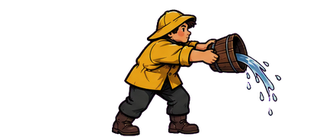
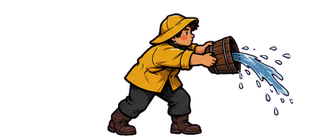
Рудник 3: водолей в правильном порядке кадров (ряды листа делятся по промежуткам, а не поровну — у GPT было 6/6/4/8), тайминг выплёскивания

diff --git a/art/zone/anim_hall_lib.py b/art/zone/anim_hall_lib.py
@@ -1,0 +1,112 @@
+# Shared bits for the animation previews: magenta keying and cutting a cycle sheet into frames along silhouettes.
+import numpy as np
+from PIL import Image
+
+def key(im):
+    """magenta -> transparent, with the magenta taken out of soft edges (as in art/malachite/parts_cut.py)"""
+    a = np.asarray(im.convert("RGB")).astype(float) / 255
+    r, g, b = a[..., 0], a[..., 1], a[..., 2]
+    al = 1 - np.clip((np.minimum(r, b) - g - 0.25) / 0.45, 0, 1)
+    fg = np.clip((a - (1 - al[..., None]) * np.array([1, 0, 1])) / np.maximum(al[..., None], 1e-3), 0, 1)
+    return Image.fromarray((np.dstack([fg, al]) * 255).astype(np.uint8))
+
+def fit_h(im, h):
+    return im.resize((max(1, round(im.width * h / im.height)), h), Image.LANCZOS)
+
+def label(mask):
+    lab = np.zeros(mask.shape, np.int32); n = 0
+    h, w = mask.shape
+    for y0, x0 in zip(*np.nonzero(mask)):
+        if lab[y0, x0]: continue
+        n += 1; stack = [(y0, x0)]; lab[y0, x0] = n
+        while stack:
+            y, x = stack.pop()
+            for yy, xx in ((y + 1, x), (y - 1, x), (y, x + 1), (y, x - 1)):
+                if 0 <= yy < h and 0 <= xx < w and mask[yy, xx] and not lab[yy, xx]:
+                    lab[yy, xx] = n; stack.append((yy, xx))
+    return lab, n
+
+def by_shape(im, n, rows=1, align="center", ahead=False):
+    """n frames cut along the figures' silhouettes (the n biggest regions; small loose bits - a pick, spray - join the
+    nearest one), ordered by rows then left to right, on one canvas size with the bottoms aligned. With `ahead` (people
+    facing right) a loose bit joins the nearest figure it is IN FRONT of: a thrown stone or a spark flies out of its own
+    cell towards the next drawing, and by plain nearness it hung behind the next man's back"""
+    S = 4
+    al = np.asarray(im)[..., 3]
+    h, w = al.shape
+    small = al[: h // S * S, : w // S * S].reshape(h // S, S, w // S, S).max(axis=(1, 3)) > 128
+    lab, k = label(small)
+    sizes = np.bincount(lab.ravel())[1:]
+    big = list(np.argsort(sizes)[::-1][:n] + 1)
+    cen = {i: (np.nonzero(lab == i)[0].mean(), np.nonzero(lab == i)[1].mean()) for i in range(1, k + 1)}
+    by_y = sorted(big, key=lambda i: cen[i][0])
+    # rows split at the widest gaps between the drawings' middles, not by equal counts: GPT sometimes puts 4 drawings in a
+    # row and 8 in the next (the bailer), and equal counts then mixed the rows up
+    gaps = sorted(range(1, len(by_y)), key=lambda j: cen[by_y[j]][0] - cen[by_y[j - 1]][0])[::-1][:rows - 1]
+    cuts = [0] + sorted(gaps) + [len(by_y)]
+    order = []
+    for r in range(rows):
+        order += sorted(by_y[cuts[r]:cuts[r + 1]], key=lambda i: cen[i][1])
+    owner = {}
+    for i in range(1, k + 1):
+        near = lambda j: (cen[i][0] - cen[j][0]) ** 2 + (cen[i][1] - cen[j][1]) ** 2
+        behind = [j for j in big if cen[j][1] < cen[i][1] and abs(cen[j][0] - cen[i][0]) < h / S / rows / 2] if ahead else []
+        owner[i] = i if i in big else min(behind or big, key=near)
+    lut = np.zeros(k + 1, np.int32)
+    for i, o in owner.items():
+        lut[i] = o
+    own = np.repeat(np.repeat(lut[lab], S, 0), S, 1)
+    own = np.pad(own, ((0, h - own.shape[0]), (0, w - own.shape[1])))
+    arr = np.asarray(im)
+    out = []
+    for i in order:
+        msk = own == i
+        ys, xs = np.nonzero(msk)
+        a = arr.copy(); a[..., 3] = (a[..., 3] * msk).astype(np.uint8)
+        out.append(Image.fromarray(a).crop((xs.min(), ys.min(), xs.max() + 1, ys.max() + 1)))
+    # horizontal registration: a walker by the hips (the bbox jumps with every stride), a planted figure by the feet
+    def ax(f):
+        a = np.asarray(f)[..., 3] > 128
+        ys, xs = np.nonzero(a)
+        top, bot = ys.min(), ys.max()
+        if align == "hips":
+            band = (ys > top + (bot - top) * 0.40) & (ys < top + (bot - top) * 0.58)
+        elif align == "feet":
+            band = ys > bot - (bot - top) * 0.12
+        else:
+            return f.width / 2
+        return xs[band].mean()
+    anchors = [ax(f) for f in out]
+    left = max(anchors); right = max(f.width - a for f, a in zip(out, anchors))
+    W = int(left + right) + 2; H = max(f.height for f in out)
+    res = []
+    for f, a in zip(out, anchors):
+        g = Image.new("RGBA", (W, H), (0, 0, 0, 0)); g.alpha_composite(f, (int(left - a), H - f.height)); res.append(g)
+    return res
+
+def smooth_order(fr):
+    """GPT numbers the drawings of a loop, but they do not always follow each other: neighbours on the sheet can be poses
+    far apart, and the loop jumps. Find the order through all drawings with the least change from one to the next
+    (a closed tour: nearest neighbour, then 2-opt), starting from the sheet's first drawing and keeping its direction."""
+    sz = (48, 48)
+    def vec(f):
+        g = Image.new("RGBA", f.size, (0, 0, 0, 0)); g.alpha_composite(f)
+        a = np.asarray(g.resize(sz, Image.BILINEAR)).astype(float) / 255
+        return np.concatenate([a[..., 3].ravel() * 2, (a[..., :3].mean(2) * a[..., 3]).ravel()])
+    v = np.array([vec(f) for f in fr])
+    D = np.sqrt(((v[:, None] - v[None]) ** 2).sum(-1))
+    n = len(fr)
+    tour, left = [0], set(range(1, n))
+    while left:
+        j = min(left, key=lambda k: D[tour[-1], k]); tour.append(j); left.discard(j)
+    better = True
+    while better:
+        better = False
+        for i in range(1, n - 1):
+            for j in range(i + 1, n):
+                a, b, c, d = tour[i - 1], tour[i], tour[j], tour[(j + 1) % n]
+                if D[a, c] + D[b, d] < D[a, b] + D[c, d] - 1e-9:
+                    tour[i:j + 1] = tour[i:j + 1][::-1]; better = True
+    if tour[1] > tour[-1]:            # the sheet's own direction: frame 1 is followed by an early drawing
+        tour = [tour[0]] + tour[1:][::-1]
+    return tour

diff --git a/CLAUDE.md b/CLAUDE.md
@@ -541,6 +541,10 @@
   кончик щупальца из трещины 100 м, компас), Мальстрём на горизонте, вестник снежного рудника — изморозь на 350 м; финал —
   грот светится, глаз. Данные area 2 заменены (9 глубин, задачи, гагат); механики поля и бой с Кракеном — не сделаны.
   GIF — `art/zone/record_gifs_mine3.sh <out>` → `mine3/gifs/`. Не проверено на iPhone.
+  29.10, проверка анимаций рудника 3: листы по порядку, тайминг `PLAY` уже был. Ошибка нарезки у водолея (300 м): GPT
+  нарисовал ряды 6/6/4/8, а `by_shape` делил рисунки на ряды поровну — кадры выплёскивания шли вперемешку. Теперь ряды
+  делятся по самым широким промежуткам (`anim_hall_lib.by_shape`, для всех рудников; у рудников 1–2 ничего не изменилось),
+  тайминг водолея подогнан. Остаётся: у водолея нижний ряд нарисован мельче (в кадрах 16–23 он чуть меньше).
 - 26.10, звук: на главном экране тихий фон шахты — `MineAmb` (ребёнок `MineScene`) через шину `Amb` (`Sfx.amb_bus`:
   low-pass 1500 Гц + эхо пещеры, −15 дБ): гул пещеры, сверчки (не на Fire Horizon), лебёдка при ходе клети (фазы 0/0.5
   цикла 9 с, если есть `headframe`), вагонетка на выбранной глубине (фазы 0/0.5 цикла 10 с), серии ударов кирки
